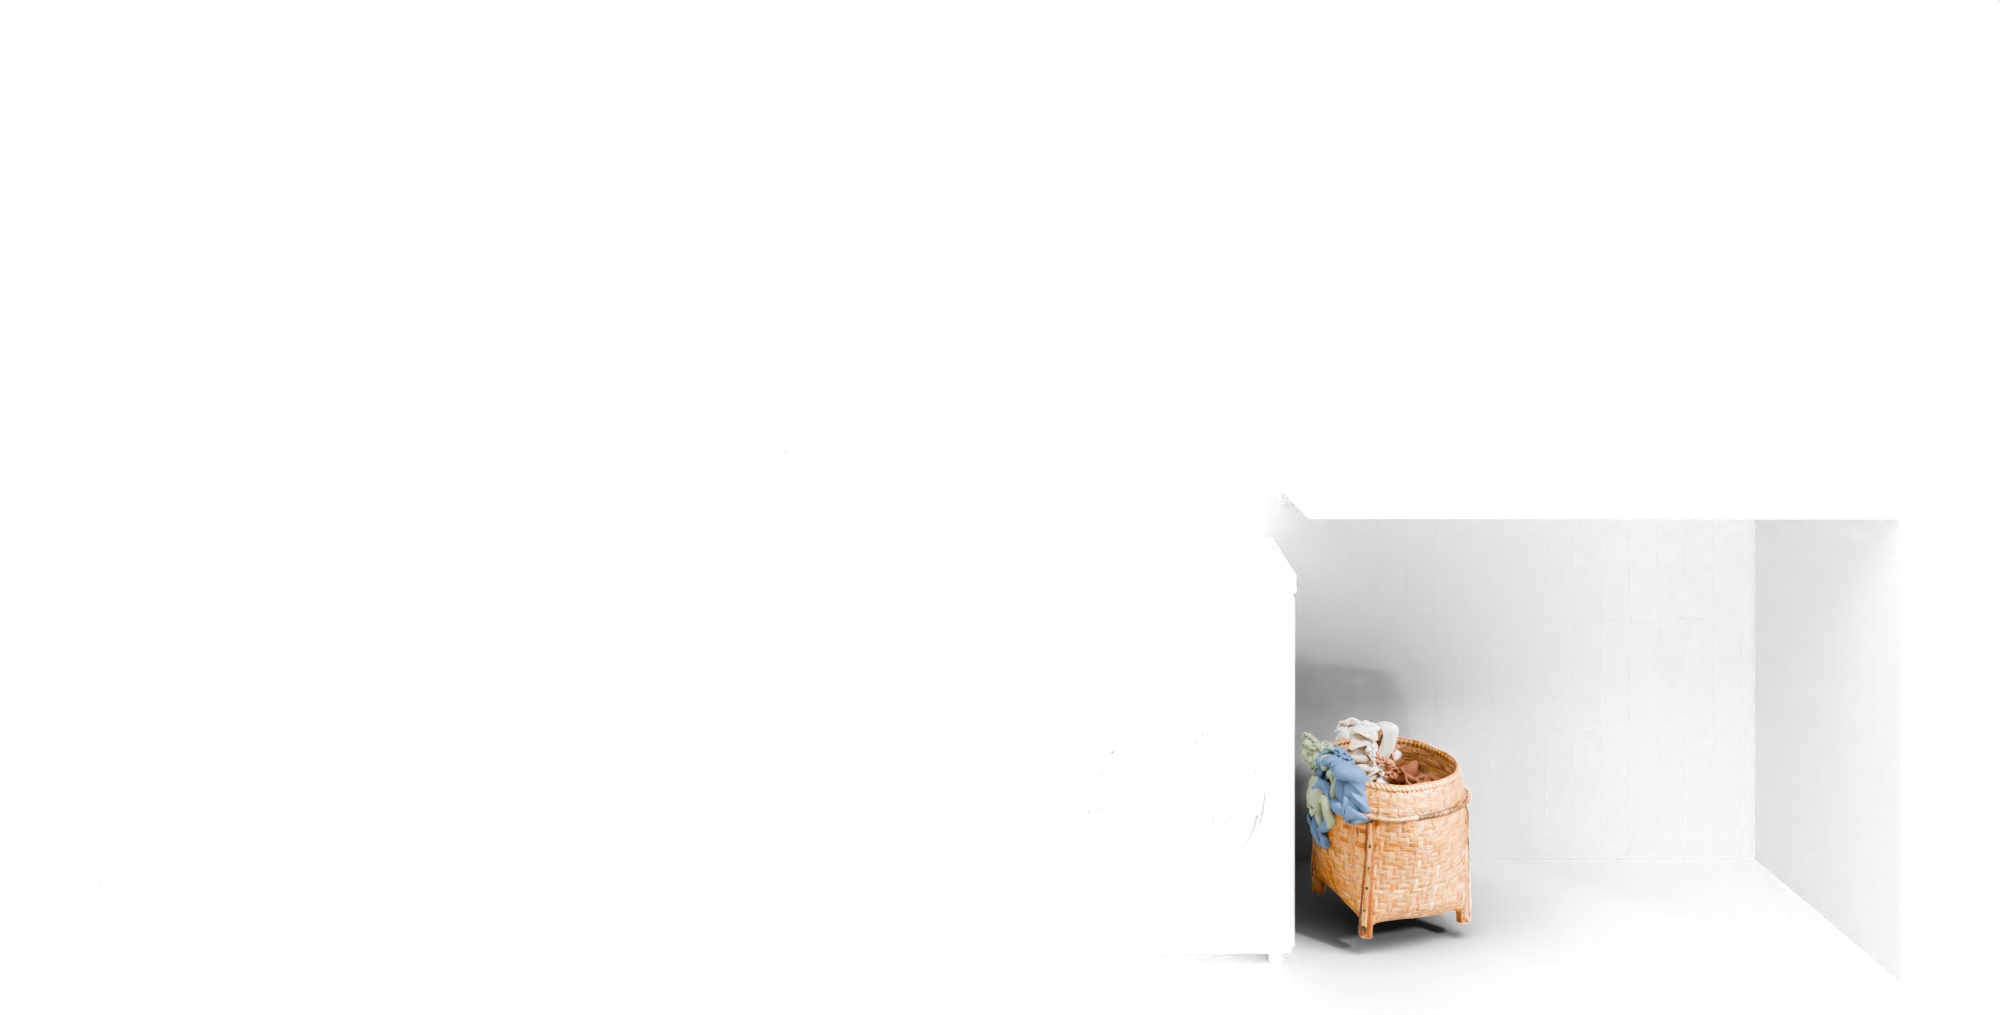
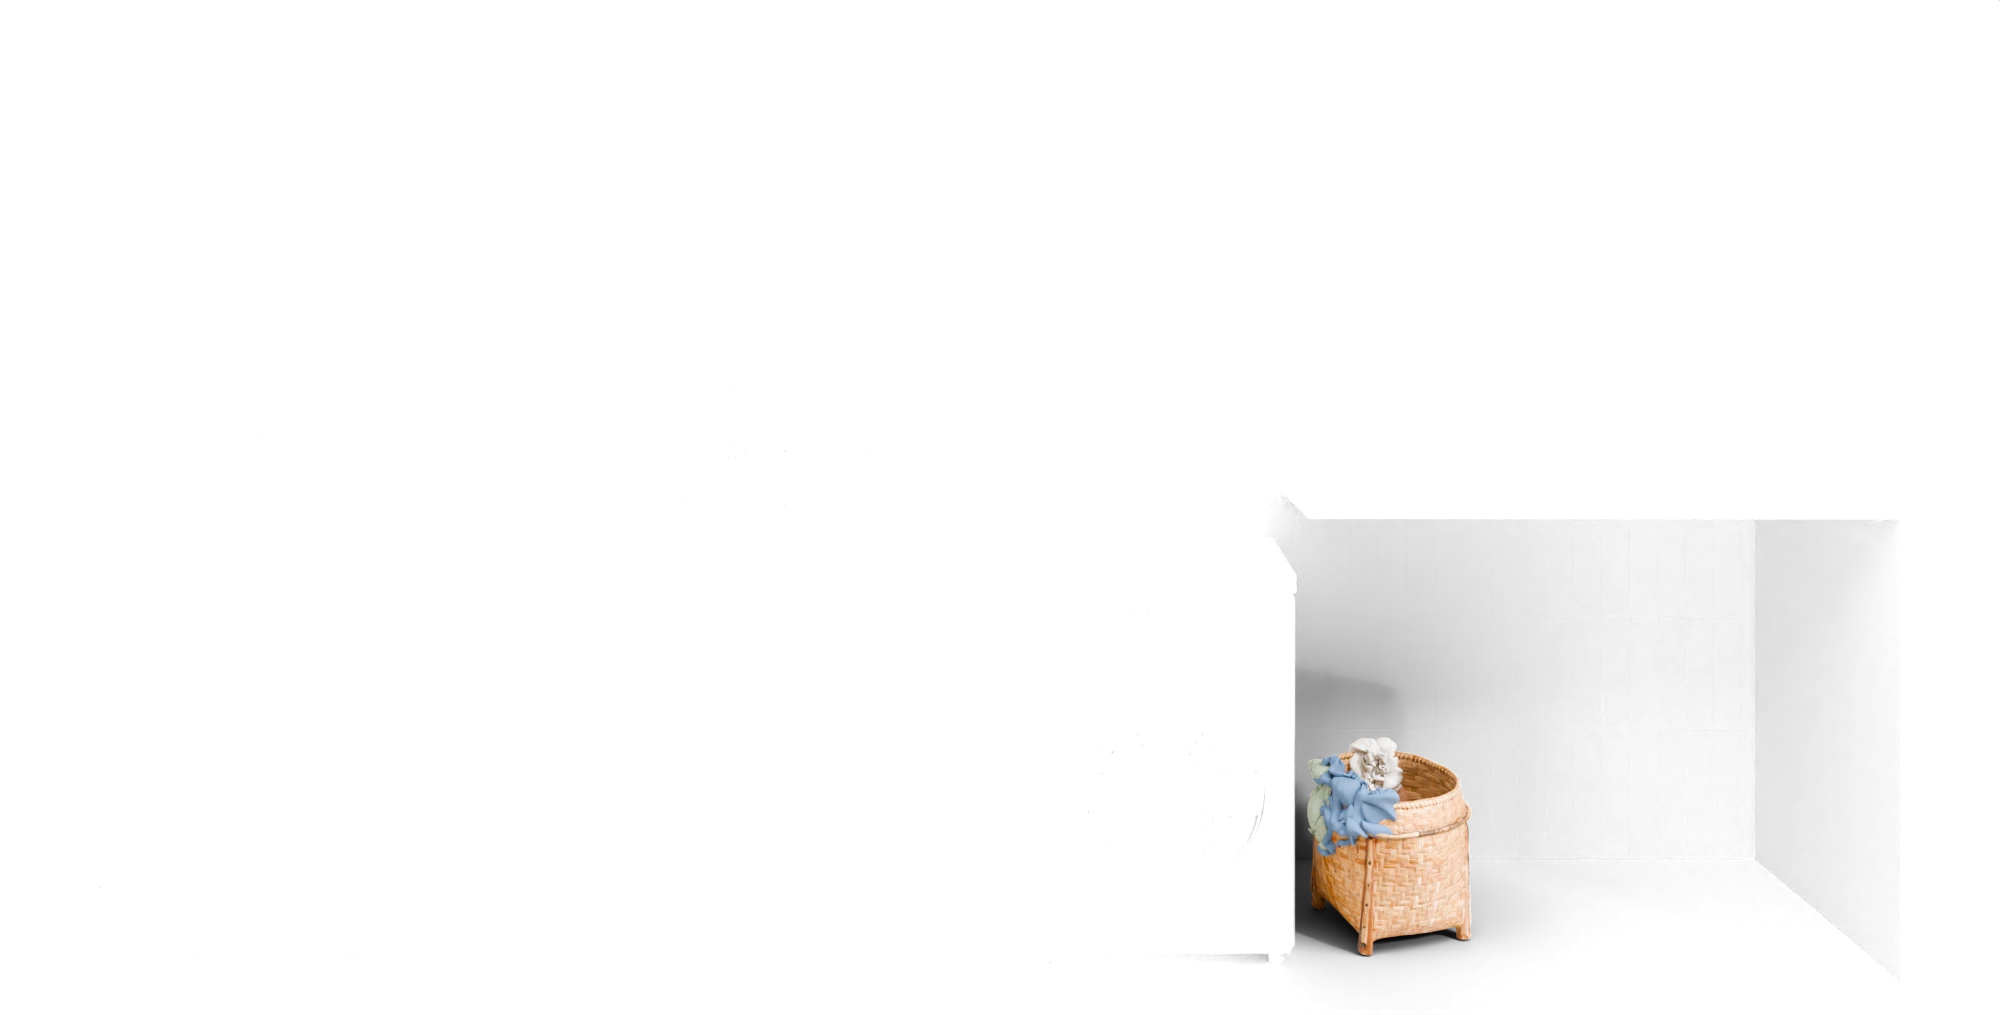
Wasmachine/wasdroger: manden op de vloer, mandschaduw op de juiste wasmachine
- manden staan nu precies op de vloer (laagste punt op z = 0)
- wasmachine: manden per machinemaat gerenderd (mand1-7, mand1-9, ...), zodat hun schaduw op
  de wasmachine valt in plaats van als waas eroverheen

Changed region(s): [[0.62, 0.7025, 0.744, 0.9468]]

diff --git a/wasmachine/vragen/vragen.js b/wasmachine/vragen/vragen.js
@@ -201,7 +201,12 @@ quiz = createQuiz3D({
     const g = st.capaciteitGroup;
     const list = ["bijkeuken", isTop(st) ? "top" : (LAYER[g] ?? "wm-9")];
     // de berg was per week, alleen bij de capaciteitsvraag
-    if (st.q === 0 && g) list.push(...["mand1", "mand2", "mand3"].slice(0, { klein: 1, gemiddeld: 2, groot: 3 }[g]));
+    // de berg was per week, alleen bij de capaciteitsvraag; per machinemaat gerenderd, zodat de
+    // schaduw van de manden op de juiste wasmachine valt
+    if (st.q === 0 && g) {
+      const kg = { klein: 7, gemiddeld: 9, groot: 10 }[g];
+      list.push(...["mand1", "mand2", "mand3"].slice(0, { klein: 1, gemiddeld: 2, groot: 3 }[g]).map(m => `${m}-${kg}`));
+    }
     return list;
   },
 
@@ -259,5 +264,5 @@ quiz = createQuiz3D({
     window.location.href = "wasmachine/resultaat/";
   },
 
-  preload: ["wm-9", "wm-7", "wm-10", "mand1", "mand2", "mand3", "top"],
+  preload: ["wm-9", "wm-7", "wm-10", "mand1-9", "mand2-9", "mand1-7", "mand1-10", "mand2-10", "mand3-10", "top"],
 });

diff --git a/tools/3d-render/wasmachine/scene.py b/tools/3d-render/wasmachine/scene.py
@@ -513,7 +513,15 @@ def basket(name, cx, cy, fill_cols, rot=0.3):
             bpy.data.objects.remove(o)
         elif o.type == "MESH":
             out.append(o)
-            cm = o.modifiers.new("col", "COLLISION"); o.collision.thickness_outer = 0.015
+    # precies op de vloer: laagste punt van het model op z = 0 (de vaste hoogte liet hem zweven)
+    bpy.context.view_layer.update()
+    zmin = min((o.matrix_world @ Vector(c)).z for o in out for c in o.bound_box)
+    for o in out:
+        if o.parent is None:
+            o.location.z -= zmin
+    bpy.context.view_layer.update()
+    for o in out:
+        cm = o.modifiers.new("col", "COLLISION"); o.collision.thickness_outer = 0.015
     fl = bpy.data.objects.get("floor")
     if fl: fl.modifiers.new("col", "COLLISION")
     cloths = []
@@ -555,12 +563,15 @@ if lay in ("wm-7", "wm-9", "wm-10"):
     WM = frontloader(depth, door_r)
 elif lay == "top":
     WM = toploader()
-elif lay in ("mand1", "mand2", "mand3"):
+elif lay.startswith("mand"):
+    # mandK-KG: wasmand K, gerenderd bij de wasmachine van KG kilo (schaduwvanger), zie hieronder
+    mkg = int(lay.split("-")[1])
+    frontloader(*{7: (0.50, 0.215), 9: (0.58, 0.23), 10: (0.64, 0.24)}[mkg])
     # De manden staan op de pagina naast elkaar (mand1, mand1+2 of alle drie). De zon werpt
     # hun schaduw naar links: de manden links van deze mand zijn daarom mee-gebouwd als
     # schaduwvanger, zodat de schaduw op die mand valt en niet als donkere waas eroverheen.
     MANDEN = [lambda: basket("m1", 0.55, -0.38, [(0.1, 0.17, 0.3), (0.8, 0.78, 0.73), (0.5, 0.24, 0.15), (0.28, 0.35, 0.26)]), lambda: basket("m2", 0.93, -0.38, [(0.78, 0.76, 0.7), (0.3, 0.36, 0.27), (0.12, 0.12, 0.13), (0.6, 0.45, 0.35)]), lambda: basket("m3", 1.31, -0.4, [(0.55, 0.26, 0.17), (0.82, 0.8, 0.75), (0.1, 0.17, 0.3), (0.62, 0.58, 0.5)])]
-    k = int(lay[-1]) - 1
+    k = int(lay.split("-")[0][-1]) - 1
     for j in range(k):
         MANDEN[j]()
     WM = MANDEN[k]()

diff --git a/tools/3d-render/wasdroger/scene.py b/tools/3d-render/wasdroger/scene.py
@@ -599,7 +599,15 @@ def basket(name, cx, cy, fill_cols, rot=0.3):
             bpy.data.objects.remove(o)
         elif o.type == "MESH":
             out.append(o)
-            cm = o.modifiers.new("col", "COLLISION"); o.collision.thickness_outer = 0.015
+    # precies op de vloer: laagste punt van het model op z = 0 (de vaste hoogte liet hem zweven)
+    bpy.context.view_layer.update()
+    zmin = min((o.matrix_world @ Vector(c)).z for o in out for c in o.bound_box)
+    for o in out:
+        if o.parent is None:
+            o.location.z -= zmin
+    bpy.context.view_layer.update()
+    for o in out:
+        cm = o.modifiers.new("col", "COLLISION"); o.collision.thickness_outer = 0.015
     fl = bpy.data.objects.get("floor")
     if fl: fl.modifiers.new("col", "COLLISION")
     cloths = []
